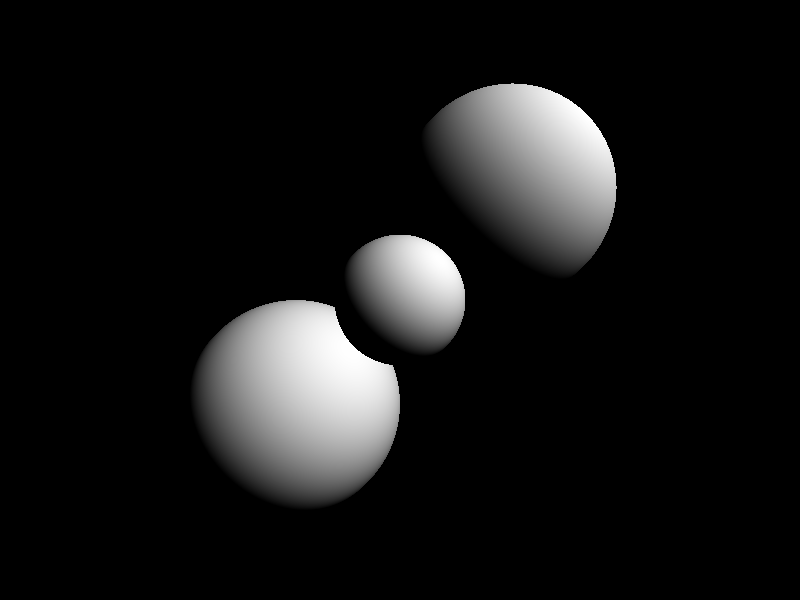
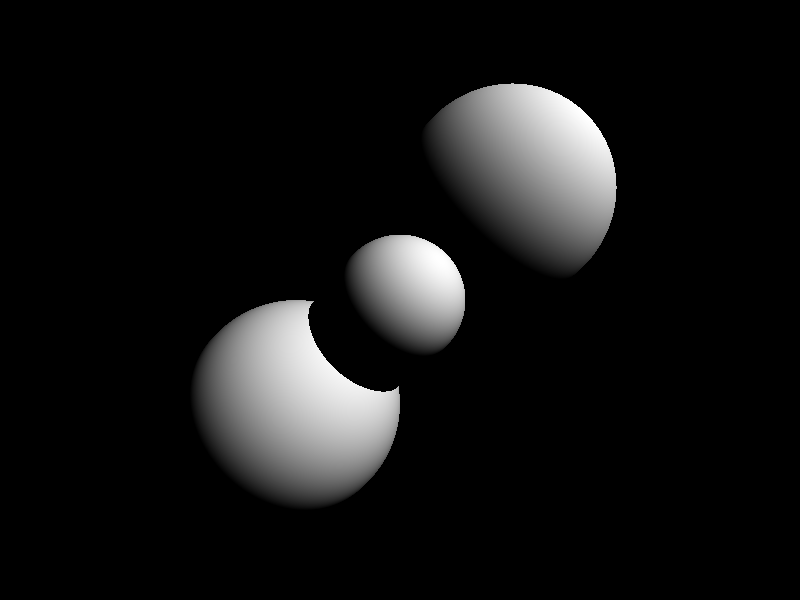
Objeto Plano

Changed region(s): [[0.375, 0.51, 0.5, 0.66]]

diff --git a/main.cpp b/main.cpp
@@ -292,6 +292,45 @@ public:
     }
 };
 
+class Plano : public Objeto
+{
+    Vec punto;
+    Vec normal;
+
+    Plano(Vec punto, Vec normal, Material material)
+    {
+        this->punto = punto;
+        this->normal = normal;
+        this->material = material;
+    }
+
+    bool interseccion(Rayo rayo, infoImpacto& impacto) override
+    {
+        const double EPSILON = 0.000001;
+
+        double escalarRayoNPlano = rayo.direccion.productoEscalar(normal);
+
+        if (abs(escalarRayoNPlano) < EPSILON)
+            return false;
+        
+        //Dado un punto x para que este en el plano, se debe cumplir (x - punto del plano) productoEscalar normal = 0//
+        double t = (punto - rayo.origen).productoEscalar(normal) / escalarRayoNPlano;
+
+        if (t <= EPSILON)
+            return false;
+
+        if (t >= impacto.t)
+            return false;
+
+        impacto.impacto = true;
+        impacto.t = t;
+        impacto.punto = rayo.origen + rayo.direccion * t;
+        impacto.normal = normal;
+        impacto.material = material;
+
+        return true;
+    }
+};
 
 int main(int argc, char* argv[])
 {
@@ -653,13 +692,7 @@ int main(int argc, char* argv[])
 
 
 
-/*class Plane : public Object
-{
-    Vec point;
-    Vec normal;
-
-    intersect(...)
-};
+/*
 
 
 
